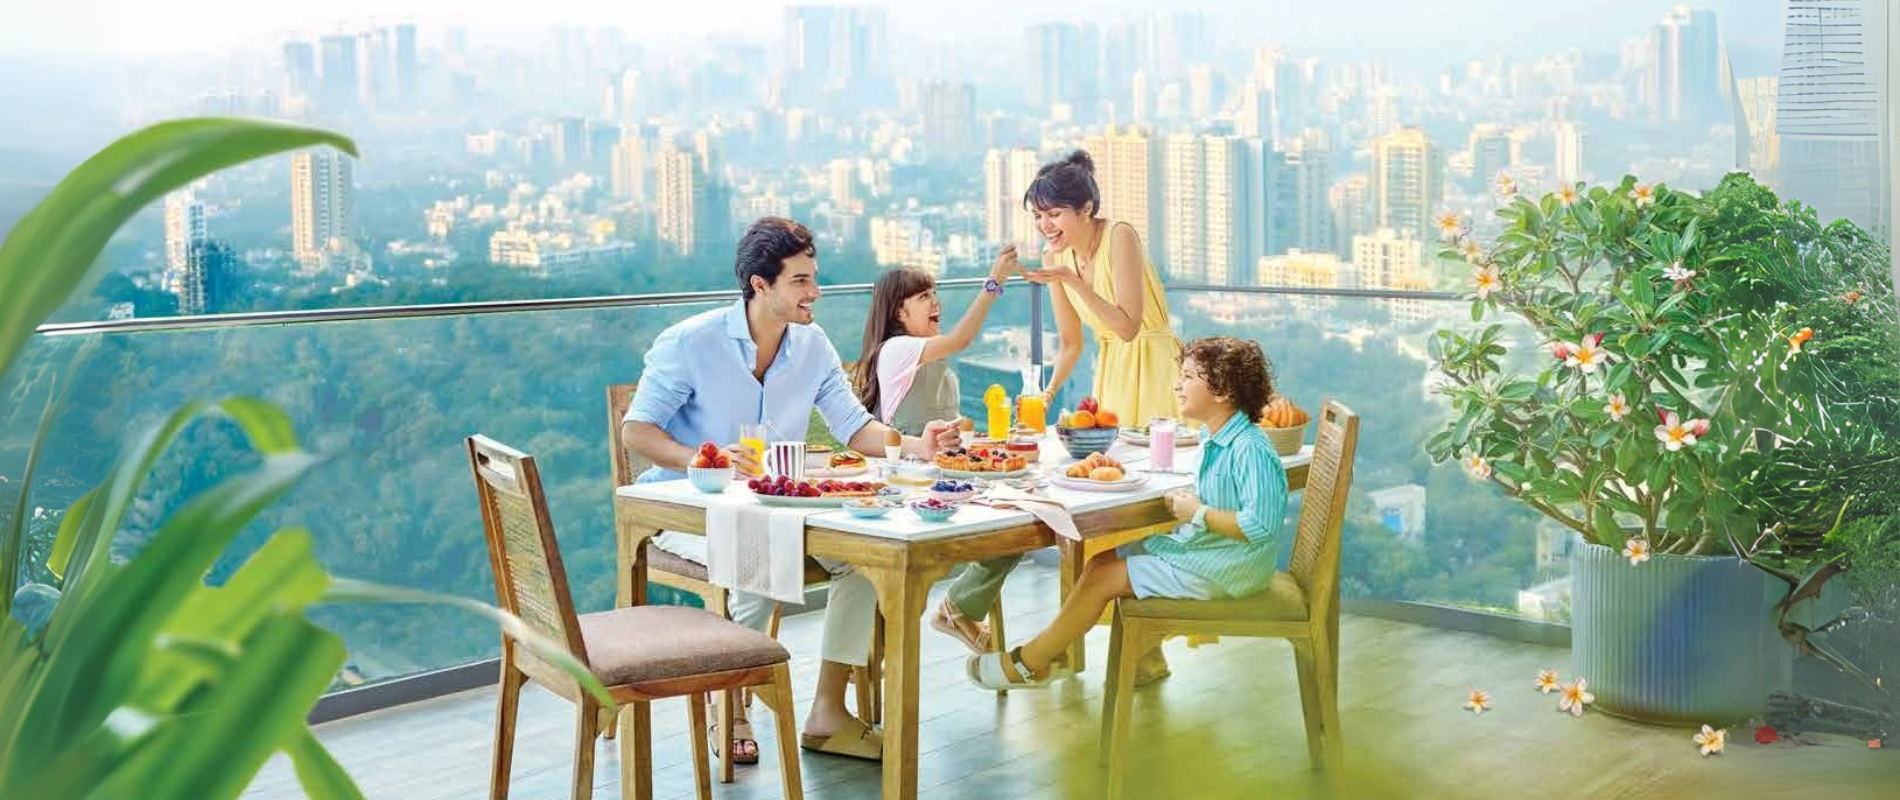
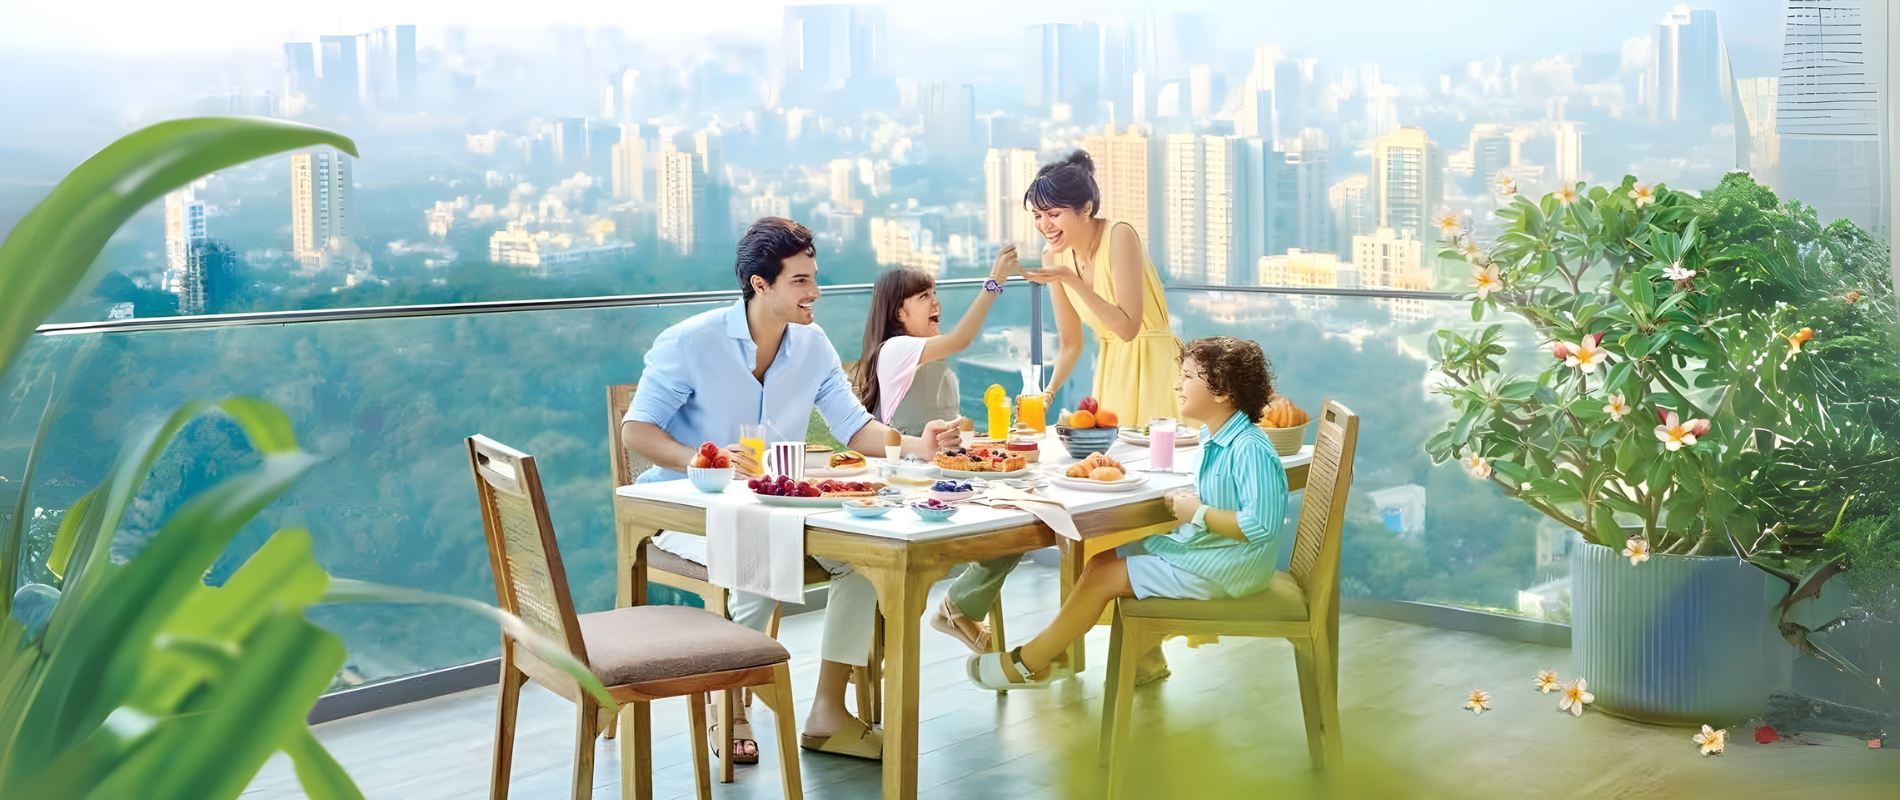
form corrected

diff --git a/rustomjee-prive/index.html b/rustomjee-prive/index.html
@@ -262,7 +262,7 @@ Hero Area
                     <div class="container">
                         <div class="hero-style12 text-center">
                             <h1 class="hero-title text-theme2 banner-text-overlay">
-                                <span class="title text-capitalize">Find balance</span>
+                                <span class="title: text-capitalize">Find balance</span>
                                 <span class="title text-capitalize">where skyline meets serenity</span>
                             </h1>
                             <div class="btn-wrap justify-content-center">
@@ -1123,7 +1123,7 @@ Appointment Area
                         <div class="title-area mb-35">
                             <h2 class="sec-title text-white">Enquire Now</h2>
                         </div>
-                        <form action="mail.php" method="POST" class="appointment-form ajax-contact me-xl-5">
+                        <form action="../email.php" method="POST" class="appointment-form me-xl-5">
                             <div class="row">
                                 <div class="form-group style-border3 col-md-6">
                                     <input type="text" class="form-control" name="name" id="name"
@@ -1453,7 +1453,7 @@ Appointment Area
 
                     </div>
                     <!-- your exact form -->
-                    <form class="appointment-form ajax-contact" action="../email.php" method="post">
+                    <form class="appointment-form" action="../email.php" method="post">
                         <div class="row">
                             <div class="form-group style-border3 col-12 mb-3">
                                 <input type="text" class="form-control" name="name" id="name" placeholder="Your Name*">
